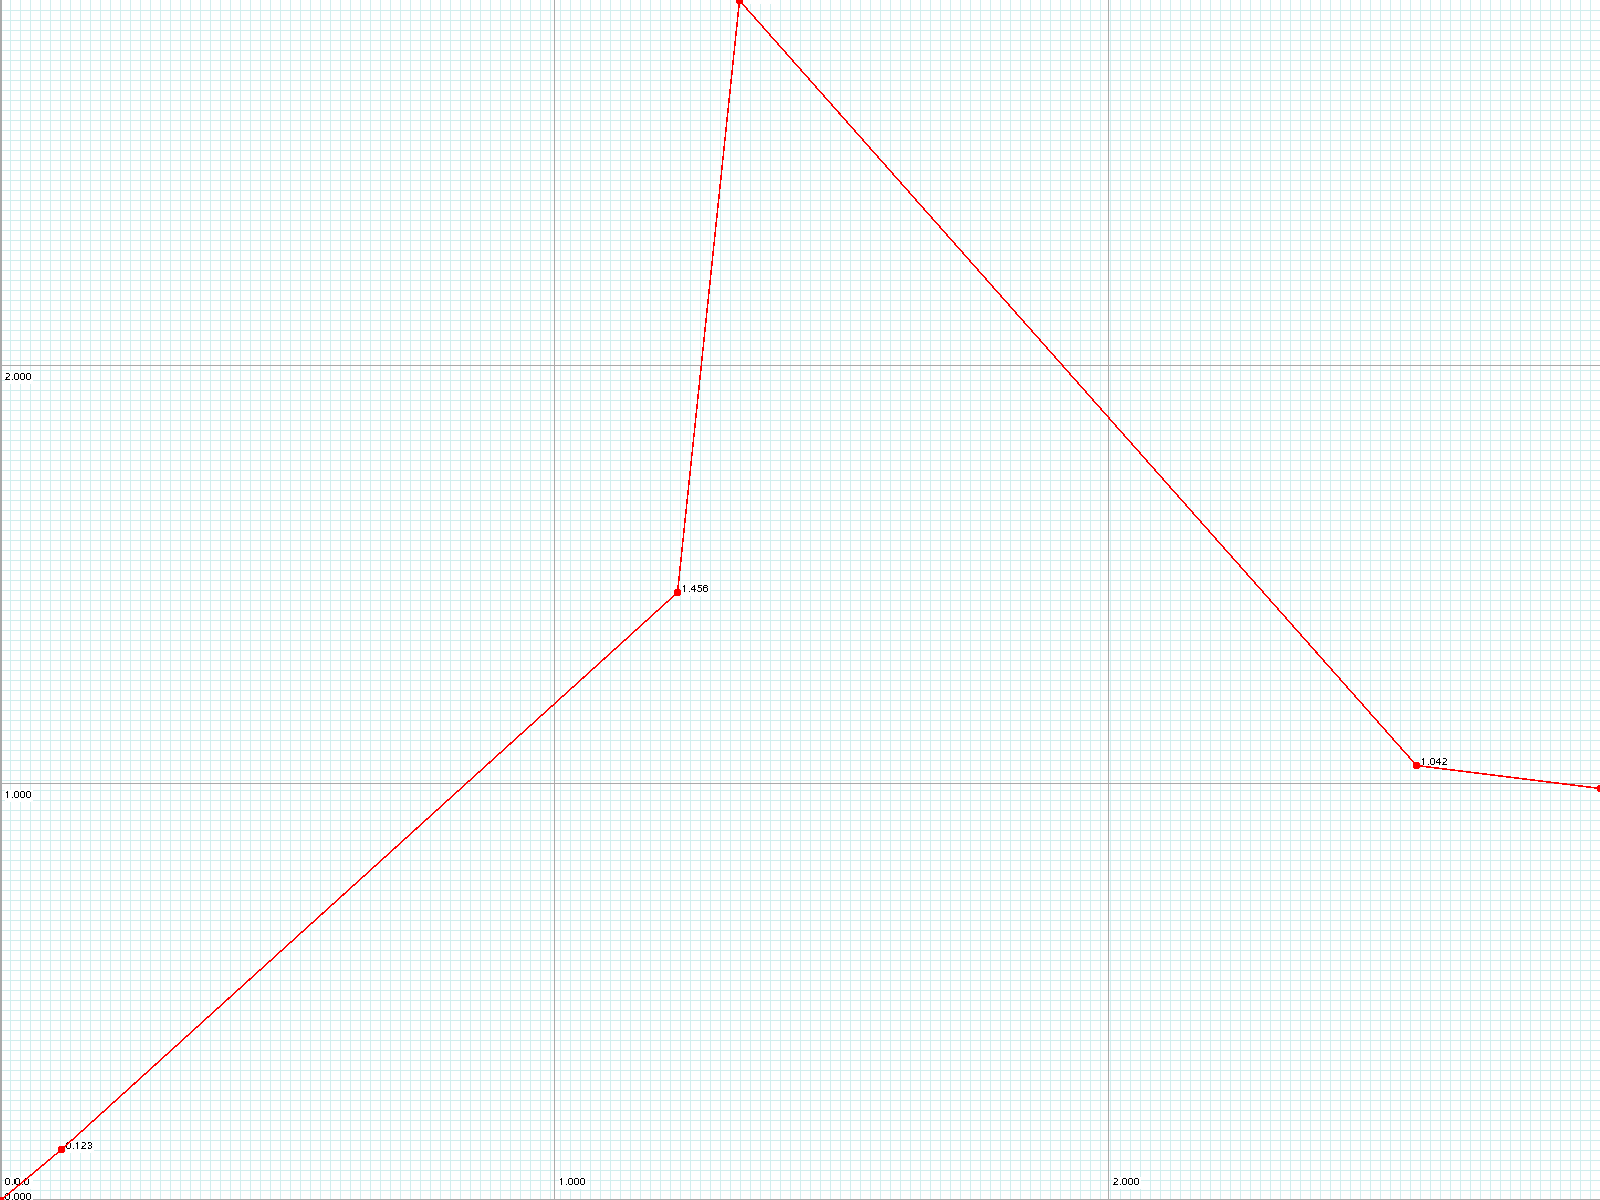
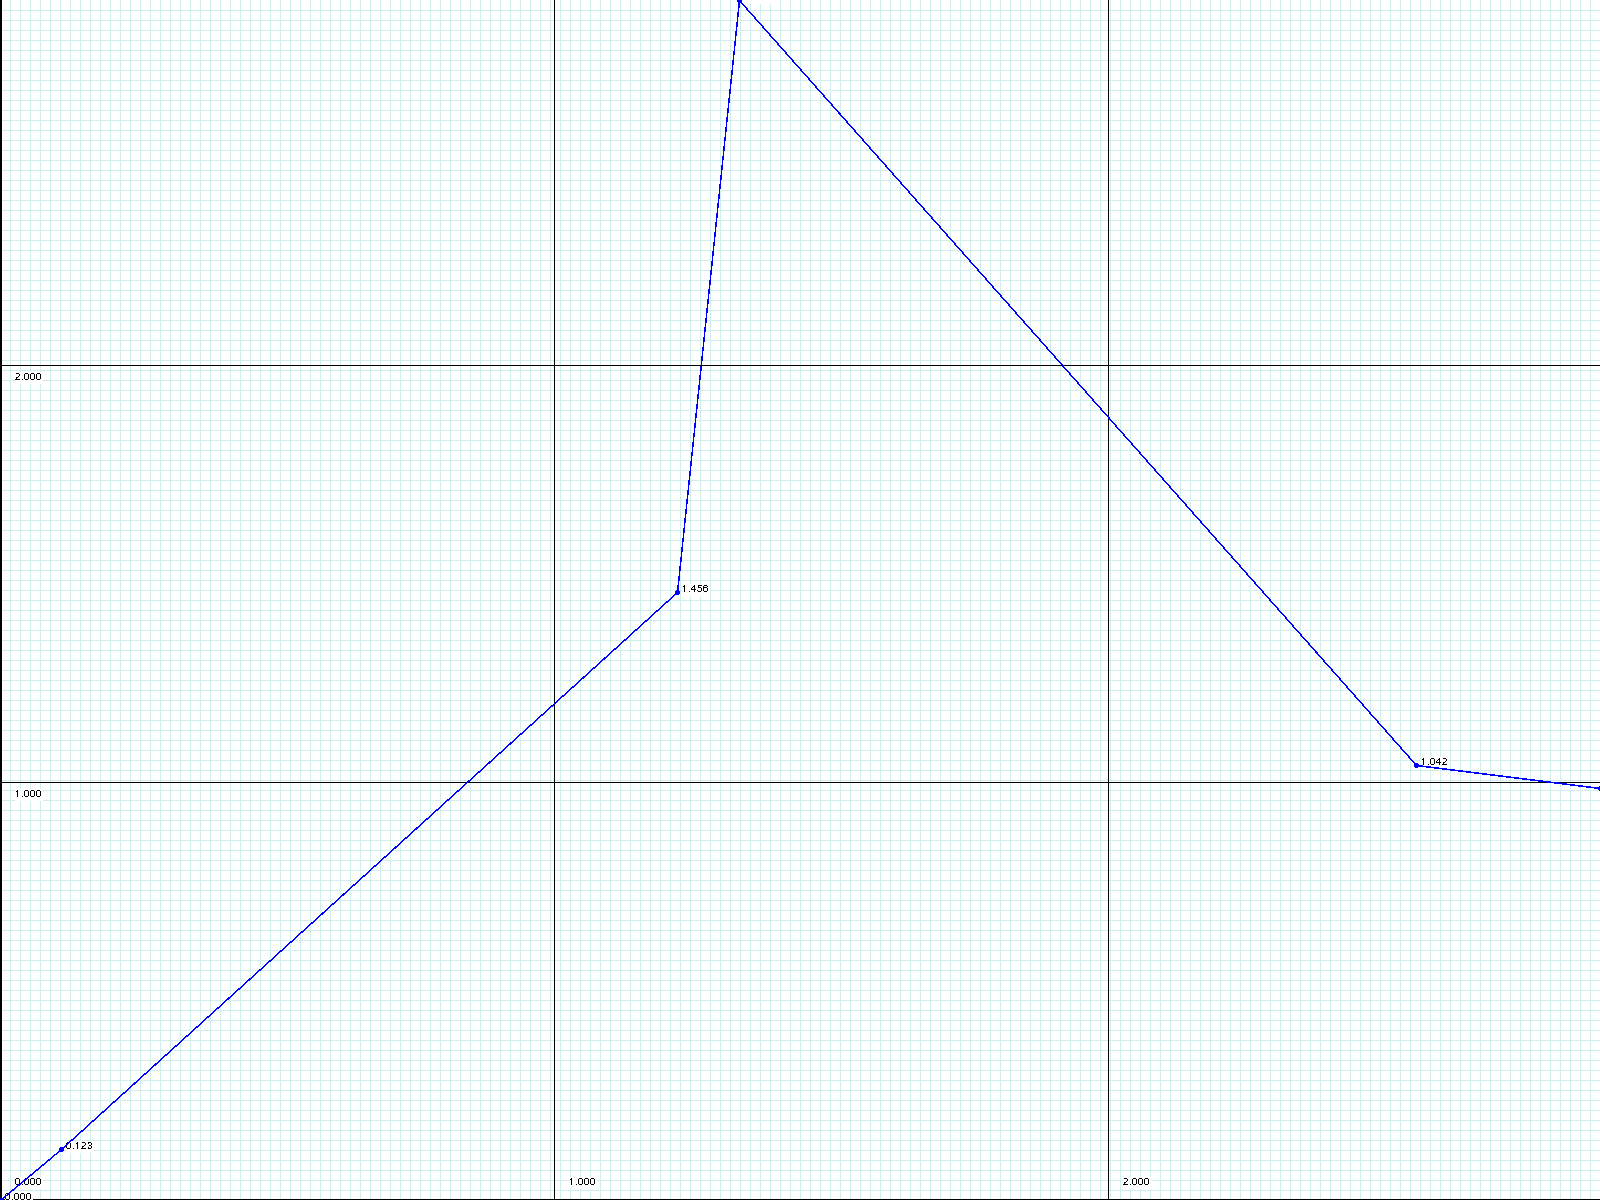
documentation updates

diff --git a/test/test_technical_readme.rb b/test/test_technical_readme.rb
@@ -1,7 +1,8 @@
 require 'helper'
 
 # run only latest test to create new graphs for documentation
-DO_NOT_RUN_OLD_TESTS = true
+DO_NOT_RUN_OLD_TESTS = false
+README_RENDERED = :rmagick
 
 class TestTechnicalReadme < Test::Unit::TestCase
   context 'generate sample graphs using readme options description' do
@@ -35,7 +36,7 @@ class TestTechnicalReadme < Test::Unit::TestCase
     #
     should 'create simplest graph' do
       return if DO_NOT_RUN_OLD_TESTS
-      @tg = TechnicalGraph.new
+      @tg = TechnicalGraph.new({:drawer_class => README_RENDERED})
       @tg.add_layer(@simple_data_array)
       @tg.render
       file_name = 'samples/readme/01_simplest.png'
@@ -49,7 +50,7 @@ class TestTechnicalReadme < Test::Unit::TestCase
     #
     should 'create 2-layer graph' do
       return if DO_NOT_RUN_OLD_TESTS
-      @tg = TechnicalGraph.new
+      @tg = TechnicalGraph.new({:drawer_class => README_RENDERED})
       @tg.add_layer(@simple_data_array)
       @tg.add_layer(@simple_data_array_b)
       @tg.render
@@ -70,6 +71,7 @@ class TestTechnicalReadme < Test::Unit::TestCase
           :x_max => 10,
           :y_min => -1,
           :y_max => 10,
+          :drawer_class => README_RENDERED
         })
       @tg.add_layer(@simple_data_array)
       @tg.render
@@ -89,7 +91,8 @@ class TestTechnicalReadme < Test::Unit::TestCase
           :x_max => 2,
           :y_min => 1,
           :y_max => 2,
-          :xy_behaviour => :fixed
+          :xy_behaviour => :fixed,
+          :drawer_class => README_RENDERED
         })
       @tg.add_layer(@simple_data_array)
       @tg.render
@@ -109,6 +112,7 @@ class TestTechnicalReadme < Test::Unit::TestCase
           :y_axis_fixed_interval => false,
           :y_axis_count => 20,
           :x_axis_count => 20,
+          :drawer_class => README_RENDERED
         })
       @tg.add_layer(@simple_data_array)
       @tg.render
@@ -128,6 +132,7 @@ class TestTechnicalReadme < Test::Unit::TestCase
           :y_axis_fixed_interval => true,
           :y_axis_interval => 0.8,
           :x_axis_interval => 0.6,
+          :drawer_class => README_RENDERED
         })
       @tg.axis.x_axis_interval.should == 0.6
       @tg.axis.y_axis_interval.should == 0.8
@@ -155,7 +160,8 @@ class TestTechnicalReadme < Test::Unit::TestCase
         {
           :x_axis_label => 'parameter',
           :y_axis_label => 'value',
-          :axis_label_font_size => 36
+          :axis_label_font_size => 36,
+          :drawer_class => README_RENDERED
         })
       @tg.add_layer(@simple_data_array)
       @tg.render
@@ -172,7 +178,8 @@ class TestTechnicalReadme < Test::Unit::TestCase
       return if DO_NOT_RUN_OLD_TESTS
       @tg = TechnicalGraph.new(
         {
-          :truncate_string => "%.3f"
+          :truncate_string => "%.3f",
+          :drawer_class => README_RENDERED
         })
       @layer_params = {
         :value_labels => true
@@ -191,7 +198,8 @@ class TestTechnicalReadme < Test::Unit::TestCase
       return if DO_NOT_RUN_OLD_TESTS
       @tg = TechnicalGraph.new(
         {
-          :truncate_string => "%.1f"
+          :truncate_string => "%.1f",
+          :drawer_class => README_RENDERED
         })
       @layer_params = {
         :value_labels => true
@@ -212,7 +220,7 @@ class TestTechnicalReadme < Test::Unit::TestCase
         {
           :width => 600,
           :height => 300,
-          :drawer_class => :rmagick
+          :drawer_class => README_RENDERED,
         })
       @tg.add_layer(@simple_data_array)
       @tg.render
@@ -231,7 +239,7 @@ class TestTechnicalReadme < Test::Unit::TestCase
           :background_color => '#000000',
           :background_hatch_color => '#222222',
           :axis_color => '#FFFFFF',
-          :drawer_class => :rmagick,
+          :drawer_class => README_RENDERED,
         })
       @tg.add_layer(@simple_data_array, {:color => '#0000FF'})
       @tg.render
@@ -248,7 +256,7 @@ class TestTechnicalReadme < Test::Unit::TestCase
 
       @tg = TechnicalGraph.new(
         {
-          :drawer_class => :rmagick
+          :drawer_class => :rmagick,
         })
       @tg.add_layer(@simple_data_array)
       @tg.render
@@ -269,7 +277,7 @@ class TestTechnicalReadme < Test::Unit::TestCase
       File.exist?(file_name).should == true
     end
 
-    should 'test antialiasing' do
+    should 'test anti-aliasing' do
       return if DO_NOT_RUN_OLD_TESTS
 
       @tg = TechnicalGraph.new(
@@ -308,7 +316,8 @@ class TestTechnicalReadme < Test::Unit::TestCase
           :y_axis_label => 'value',
           :layers_font_size => 14,
           :axis_font_size => 18,
-          :axis_label_font_size => 48
+          :axis_label_font_size => 48,
+          :drawer_class => README_RENDERED
         })
       @tg.add_layer(@simple_data_array, {:value_labels => true})
       @tg.render
@@ -330,7 +339,8 @@ class TestTechnicalReadme < Test::Unit::TestCase
       @tg = TechnicalGraph.new(
         {
           :legend => true,
-          :legend_font_size => 20
+          :legend_font_size => 20,
+          :drawer_class => README_RENDERED
         })
       @tg.add_layer(@simple_data_array, {:label => 'simple', :color => '#FFFF00'})
       @tg.add_layer(@simple_data_array_second, {:label => 'offset', :color => '#00FFFF'})
@@ -347,7 +357,7 @@ class TestTechnicalReadme < Test::Unit::TestCase
 
 
     should 'test smoothing' do
-      #return if DO_NOT_RUN_OLD_TESTS
+      return if DO_NOT_RUN_OLD_TESTS
 
       @tg = TechnicalGraph.new(
         {
@@ -356,7 +366,7 @@ class TestTechnicalReadme < Test::Unit::TestCase
           :legend => true,
           :x_axis_label => "Parameter",
           :y_axis_label => "Value",
-          :drawer_class => :rmagick
+          :drawer_class => README_RENDERED,
         }
       )
       max = 250 #2000
@@ -399,6 +409,110 @@ class TestTechnicalReadme < Test::Unit::TestCase
 
       @tg.render
       file_name = 'samples/readme/15_smoothing.png'
+      @tg.image_drawer.save_to_file(file_name)
+
+      # test
+      @tg.image_drawer.to_format(@tg.best_output_format).class.should == String
+      File.exist?(file_name).should == true
+    end
+
+
+
+    should 'test noise filtering' do
+      return if DO_NOT_RUN_OLD_TESTS
+
+      @tg = TechnicalGraph.new(
+        {
+          #:log_level => Logger::DEBUG,
+          :legend => true,
+          :drawer_class => README_RENDERED
+        }
+      )
+      max = 250 #2000
+
+      @layer_data = Array.new
+      (0..max).each do |i|
+        x = -10.0 + (20.0 * i.to_f / max.to_f)
+        y = -10.0 + (20.0 * i.to_f / max.to_f)
+        @layer_data << { :x => x, :y => y }
+      end
+
+      # custom spikes
+      [3, 36, 99, 187, 204].each do |i|
+        offset = 5.0
+        offset *= -1.0 if rand(100) % 2 == 1
+        @layer_data[i][:y] += offset
+      end
+
+      150.times do
+        i = rand(@layer_data.size)
+        offset = rand(80).to_f / 10.0
+        offset *= -1.0 if rand(100) % 2 == 1
+
+        @layer_data[i][:y] += offset
+      end
+
+      # adding simple layer
+      @layer_params = {
+        :label => 'raw',
+        :value_labels => false,
+      }
+      @layer_params_b = @layer_params.clone.merge(
+        {
+          :label => 'n.r. level 3, window 10',
+          :noise_removal_window_size => 10,
+          :noise_removal_level => 3,
+          :noise_removal => true
+        })
+      @layer_params_e = @layer_params.clone.merge(
+        {
+          :label => 'n.r level 10, window 30',
+          :noise_removal_window_size => 10,
+          :noise_removal_level => 30,
+          :noise_removal => true
+        })
+
+      @tg.add_layer(@layer_data.clone, @layer_params)
+      @tg.add_layer(@layer_data.clone, @layer_params_b)
+      @tg.add_layer(@layer_data.clone, @layer_params_e)
+
+      @tg.render
+      file_name = 'samples/readme/16_noise_removal.png'
+      @tg.image_drawer.save_to_file(file_name)
+
+      # test
+      @tg.image_drawer.to_format(@tg.best_output_format).class.should == String
+      File.exist?(file_name).should == true
+    end
+
+
+    should 'test axis enlargement' do
+      return if DO_NOT_RUN_OLD_TESTS
+
+      @tg = TechnicalGraph.new(
+        {
+          :log_level => Logger::DEBUG,
+          :drawer_class => README_RENDERED,
+          :axis_density_enlarge_image => true,
+          :x_axis_min_distance => 500,
+          :x_axis_interval => 1.0,
+          :x_axis_fixed_interval => true,
+          :width => 400
+        }
+      )
+      max = 250 #2000
+
+      @layer_data = Array.new
+      (0..max).each do |i|
+        x = -10.0 + (20.0 * i.to_f / max.to_f)
+        y = -10.0 + rand(2000).to_f / 100.0
+        @layer_data << { :x => x, :y => y }
+      end
+
+      @tg.add_layer(@layer_data)
+
+      @tg.render
+      file_name = 'samples/readme/17_axis_enlargement.png'
       @tg.image_drawer.save_to_file(file_name)
 
       # test
